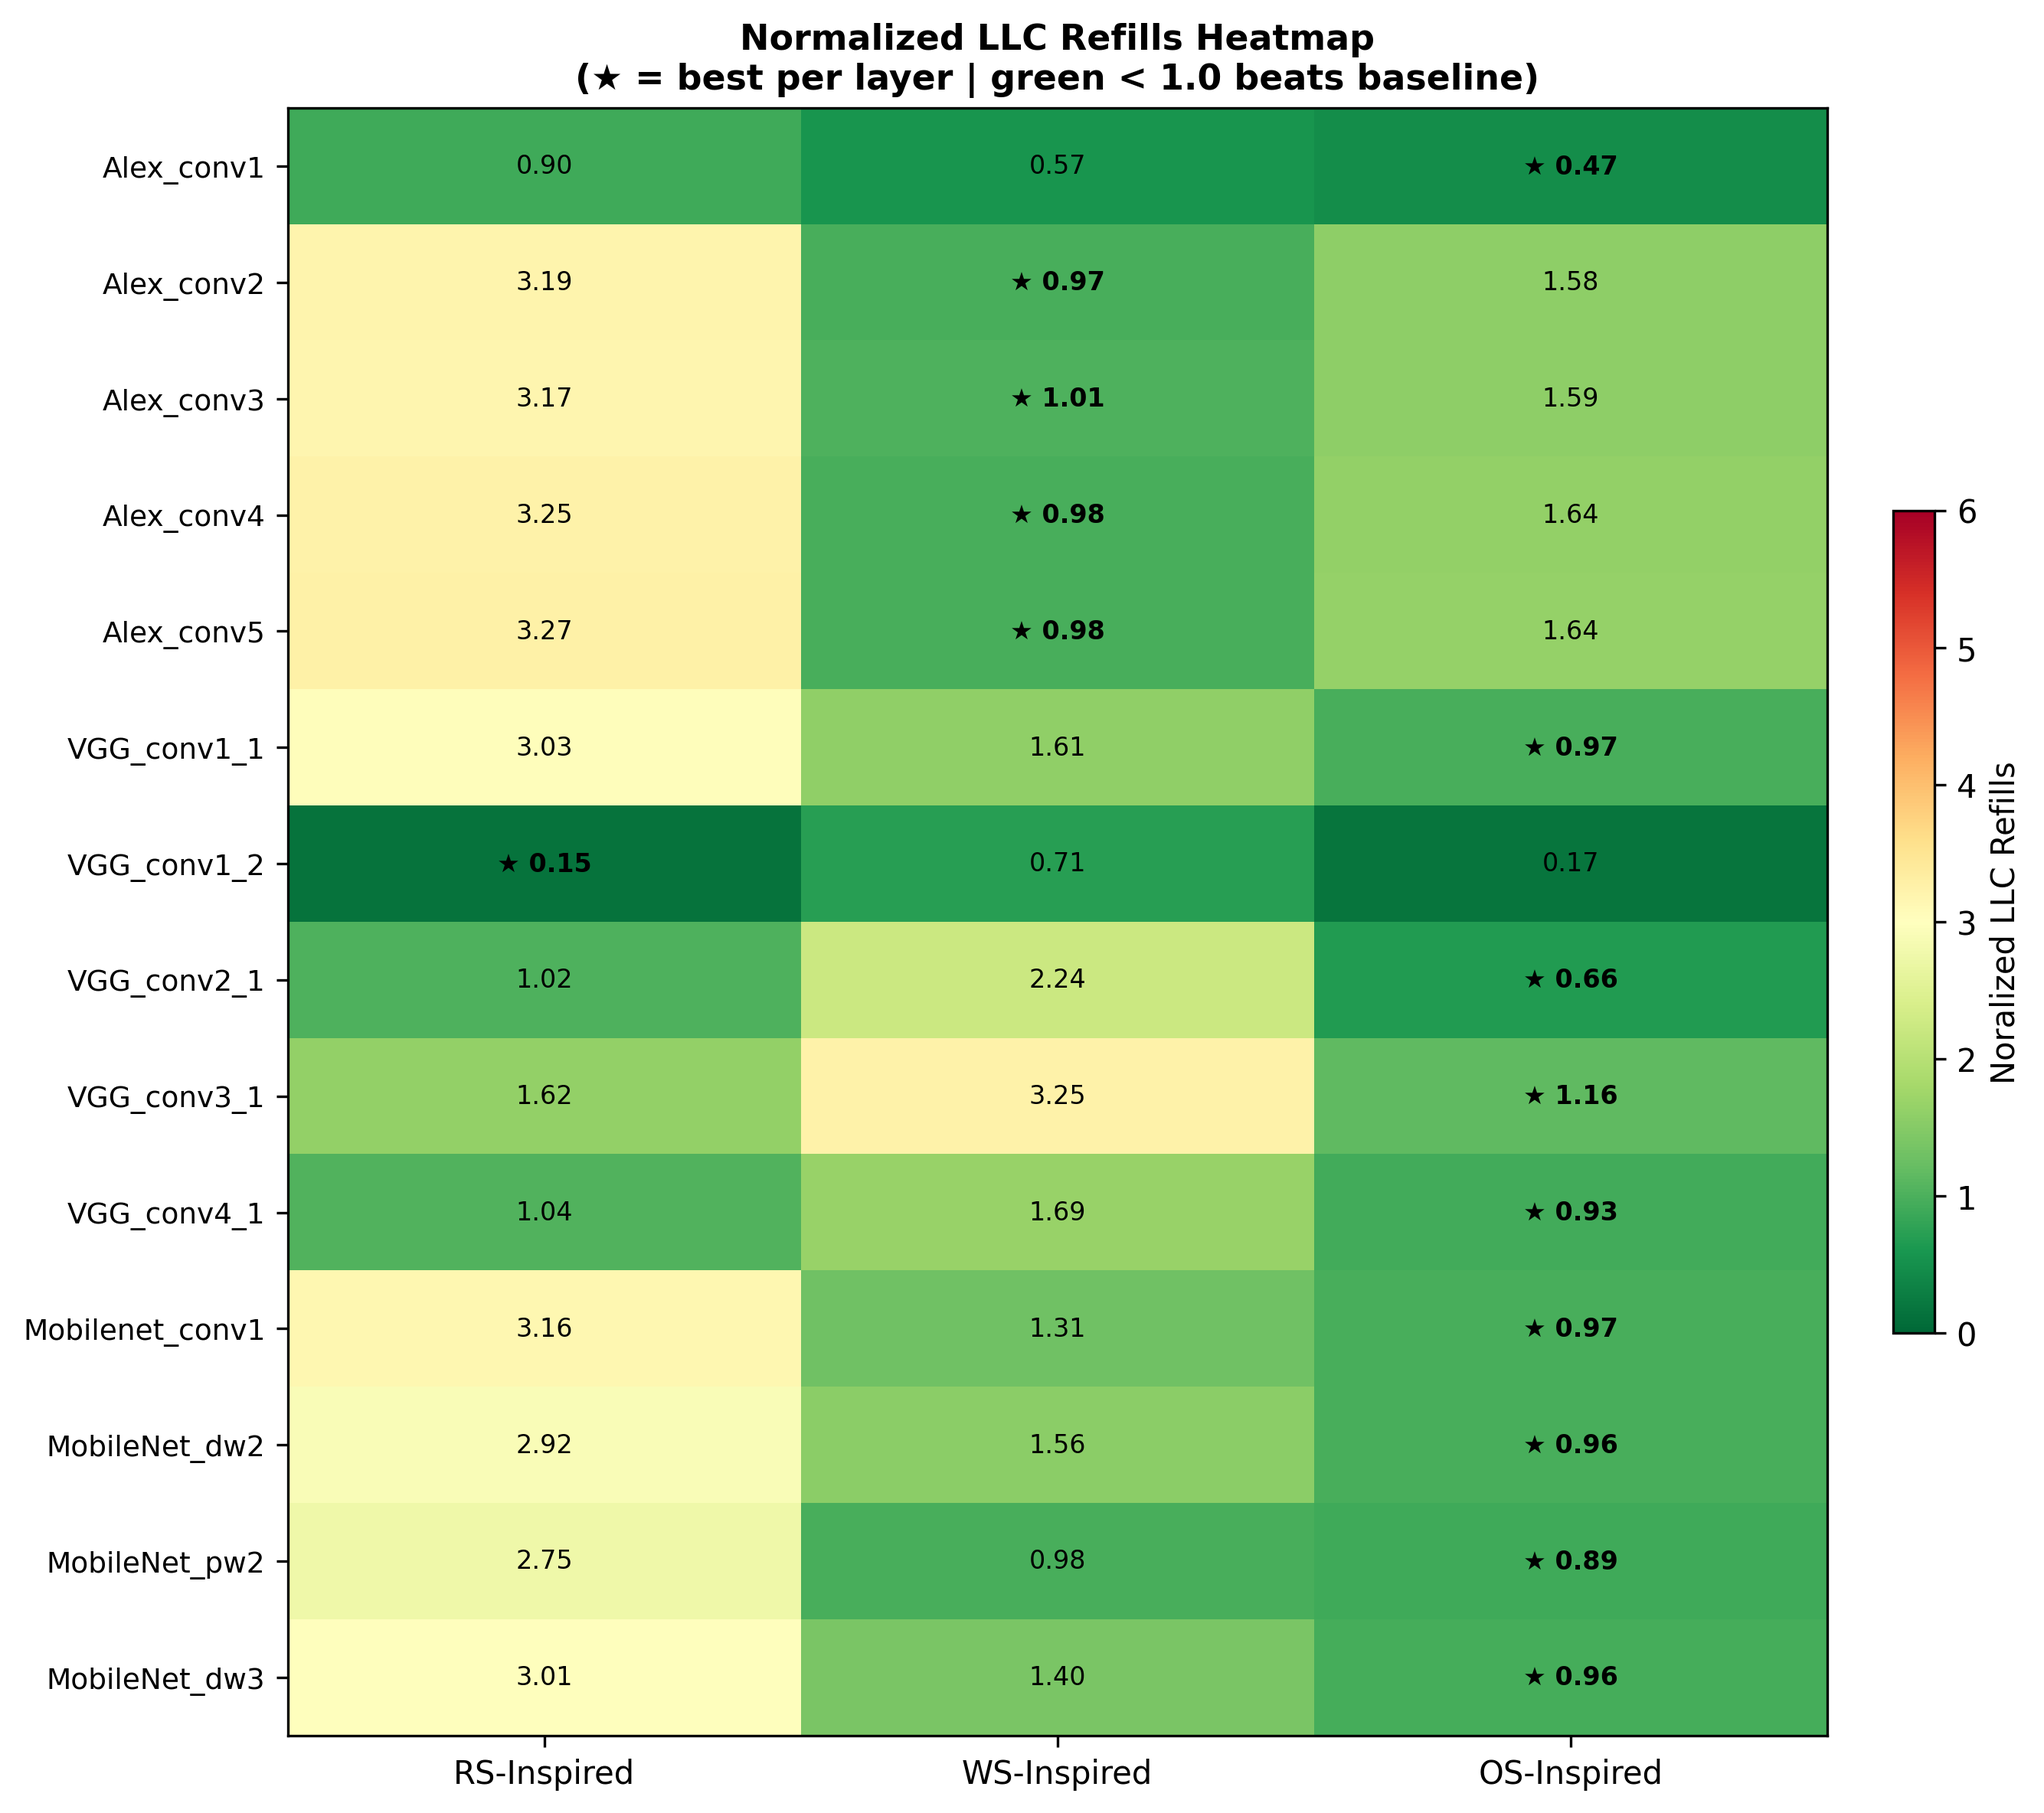
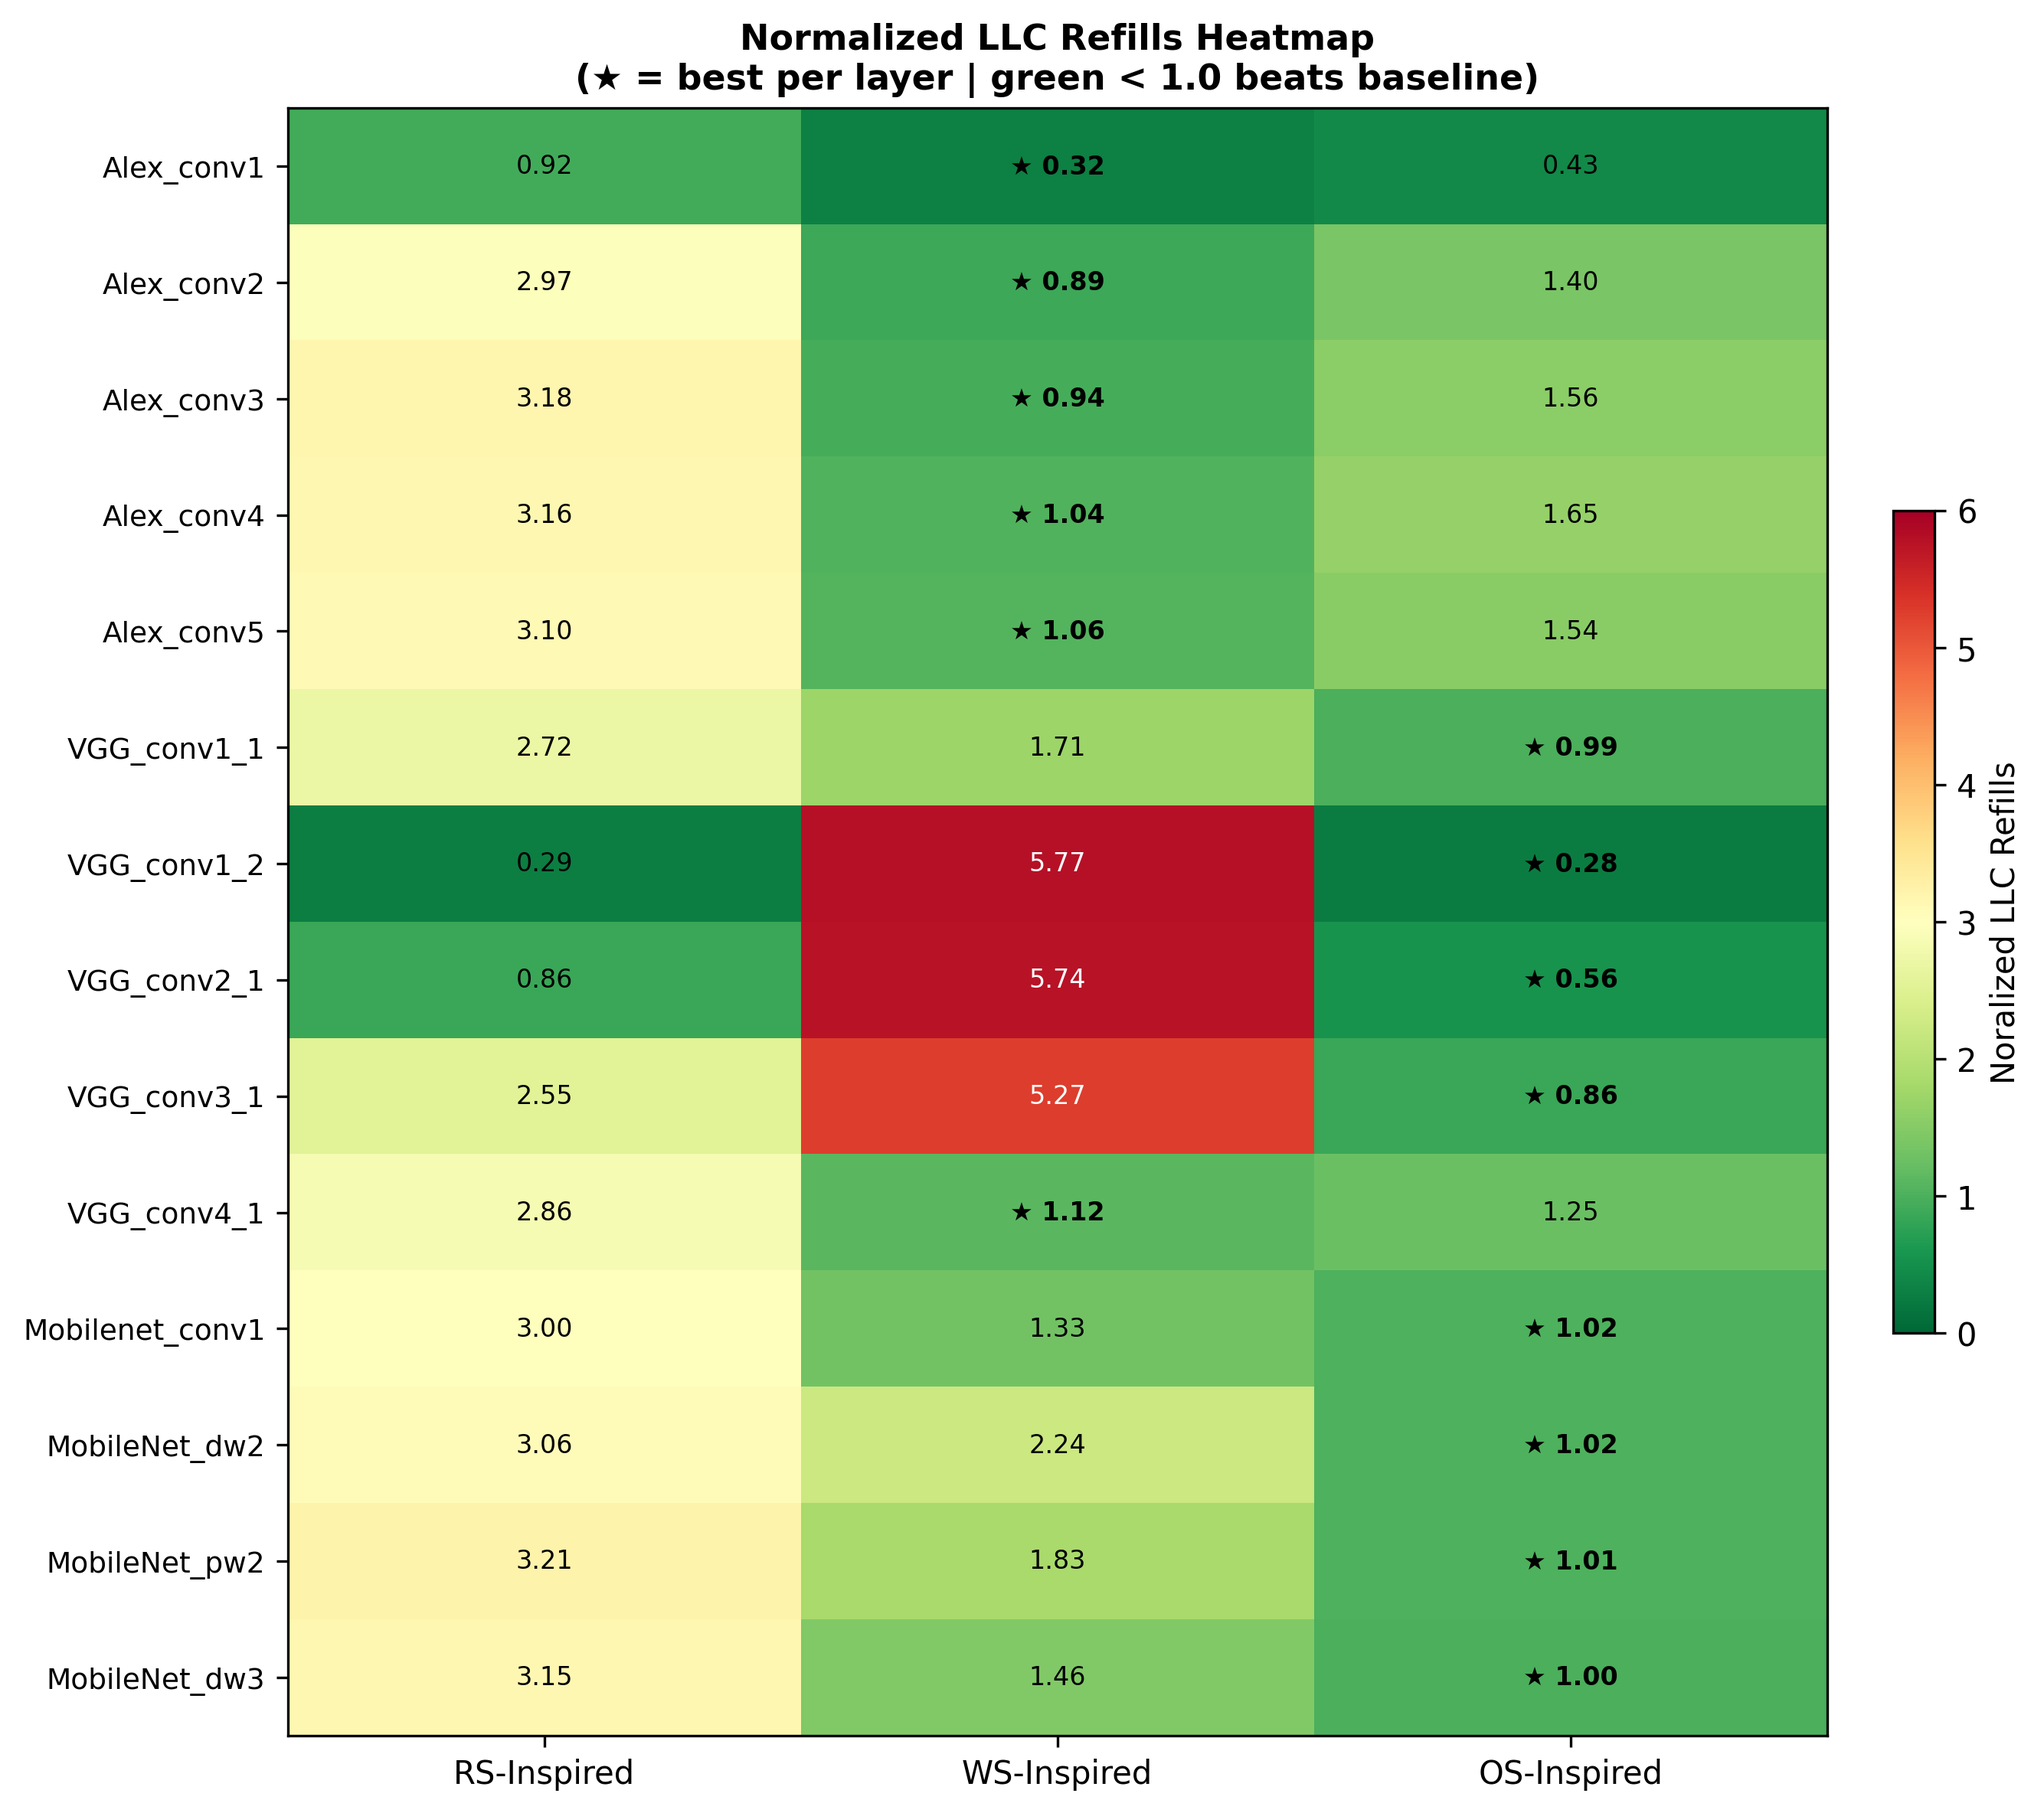
fixing the heatmap with right data

diff --git a/analysis/heatmap.py b/analysis/heatmap.py
@@ -12,7 +12,7 @@ def heatmap(csv_path:str) -> None:
     pivot=df.pivot_table(
         index="layer",
         columns="schedule",
-        values="norm_llc_access",
+        values="norm_llc_misses",
         aggfunc="mean"
     )
 
